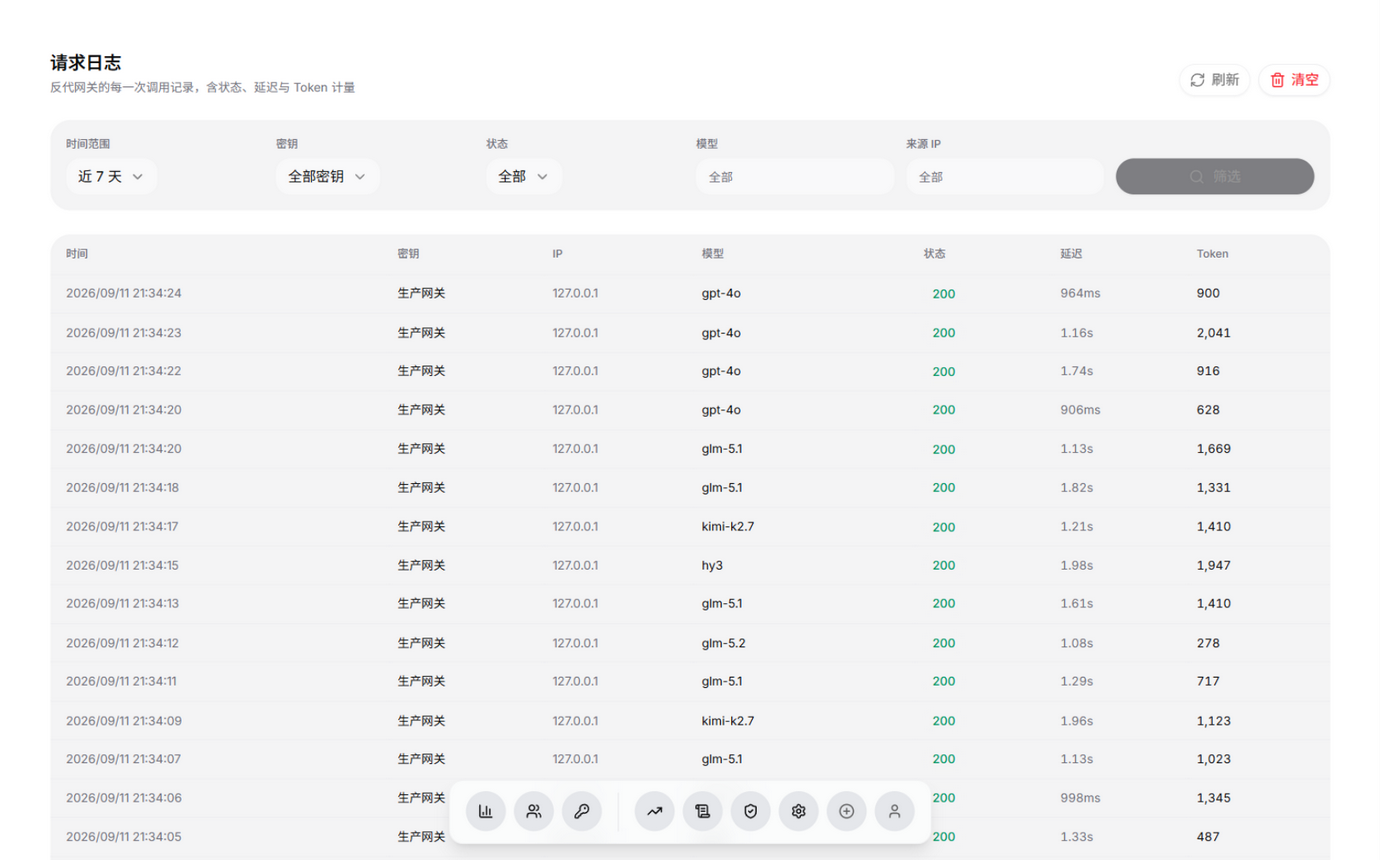
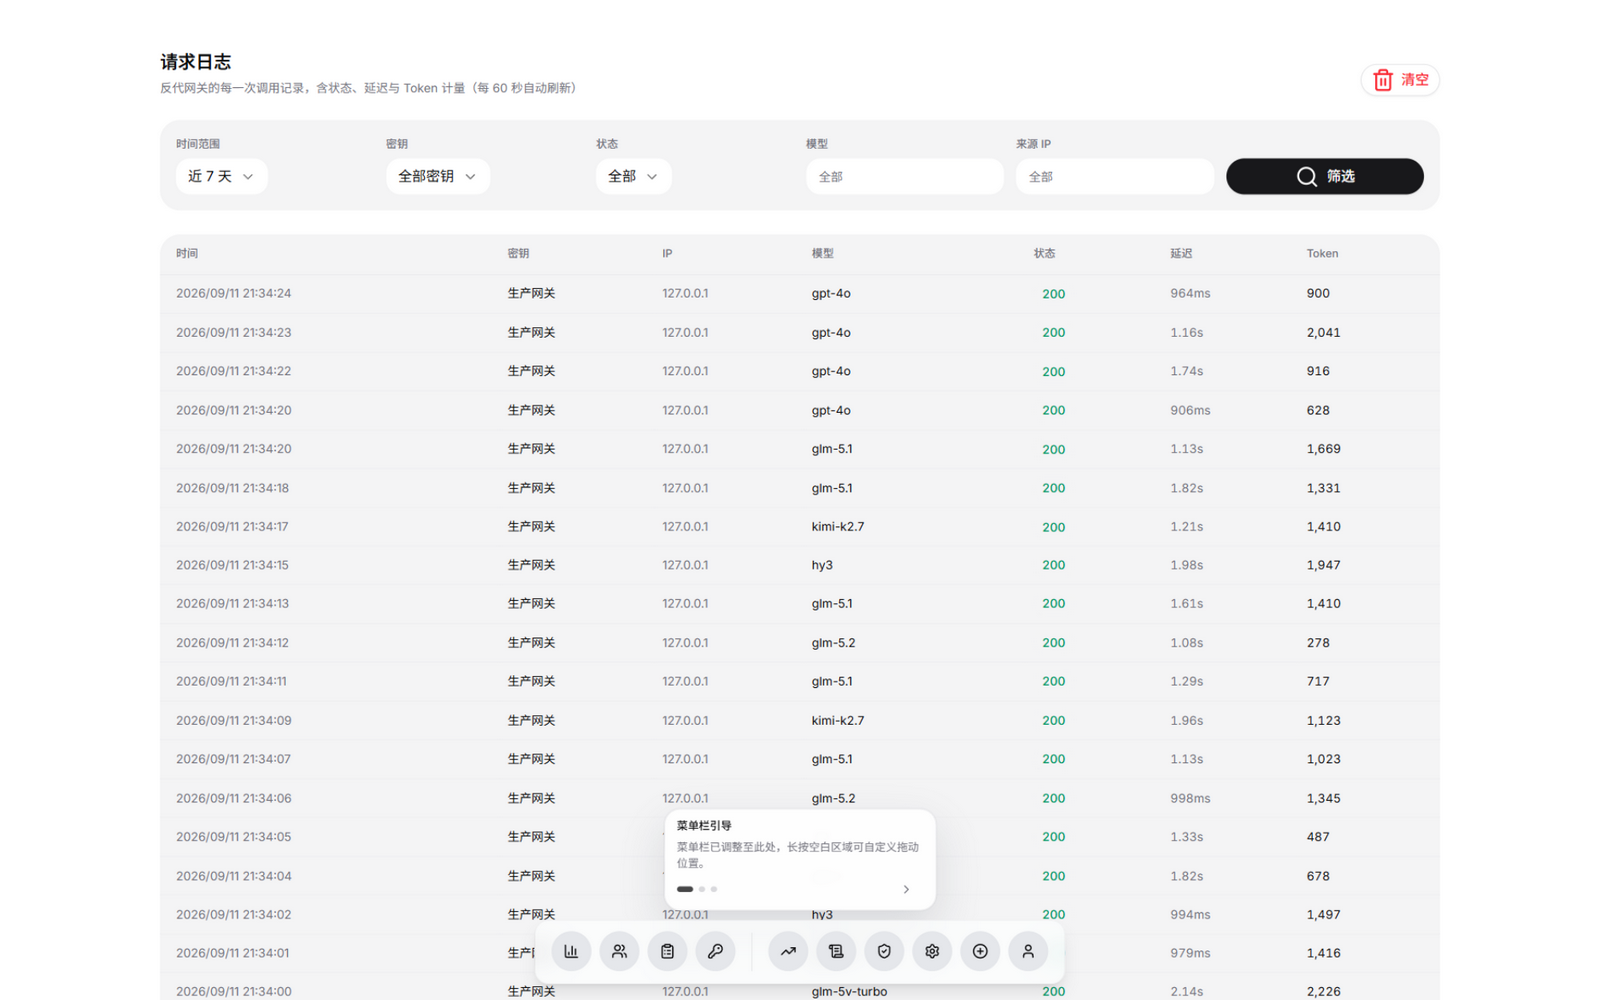
docs(images): 重拍界面截图（含新增的任务记录页）
原截图停留在 9-11，之后 UI 变化较大（任务记录独立成页、底栏新增「任务」
入口、账号页卡片化与积分来源标注、设置页紧凑化、积分/统计多项修复），
旧图与当前界面对不上。全部按 v1.0.11 重拍，并补上任务记录页。
另把演示数据补成 4 个账号 + 14 天用量，避免截图里空图表。

diff --git a/README.md b/README.md
@@ -145,6 +145,11 @@
 
 </details>
 
+### 任务记录
+> 签到结果、上游原始日志、自动任务与积分收益集中一页（30 秒自动刷新）
+
+<img src="docs/images/tasks.png" alt="任务记录" width="100%" />
+
 ### API 密钥
 > 独立配额、IP 限制、模型白名单，明文仅创建时展示一次
 
